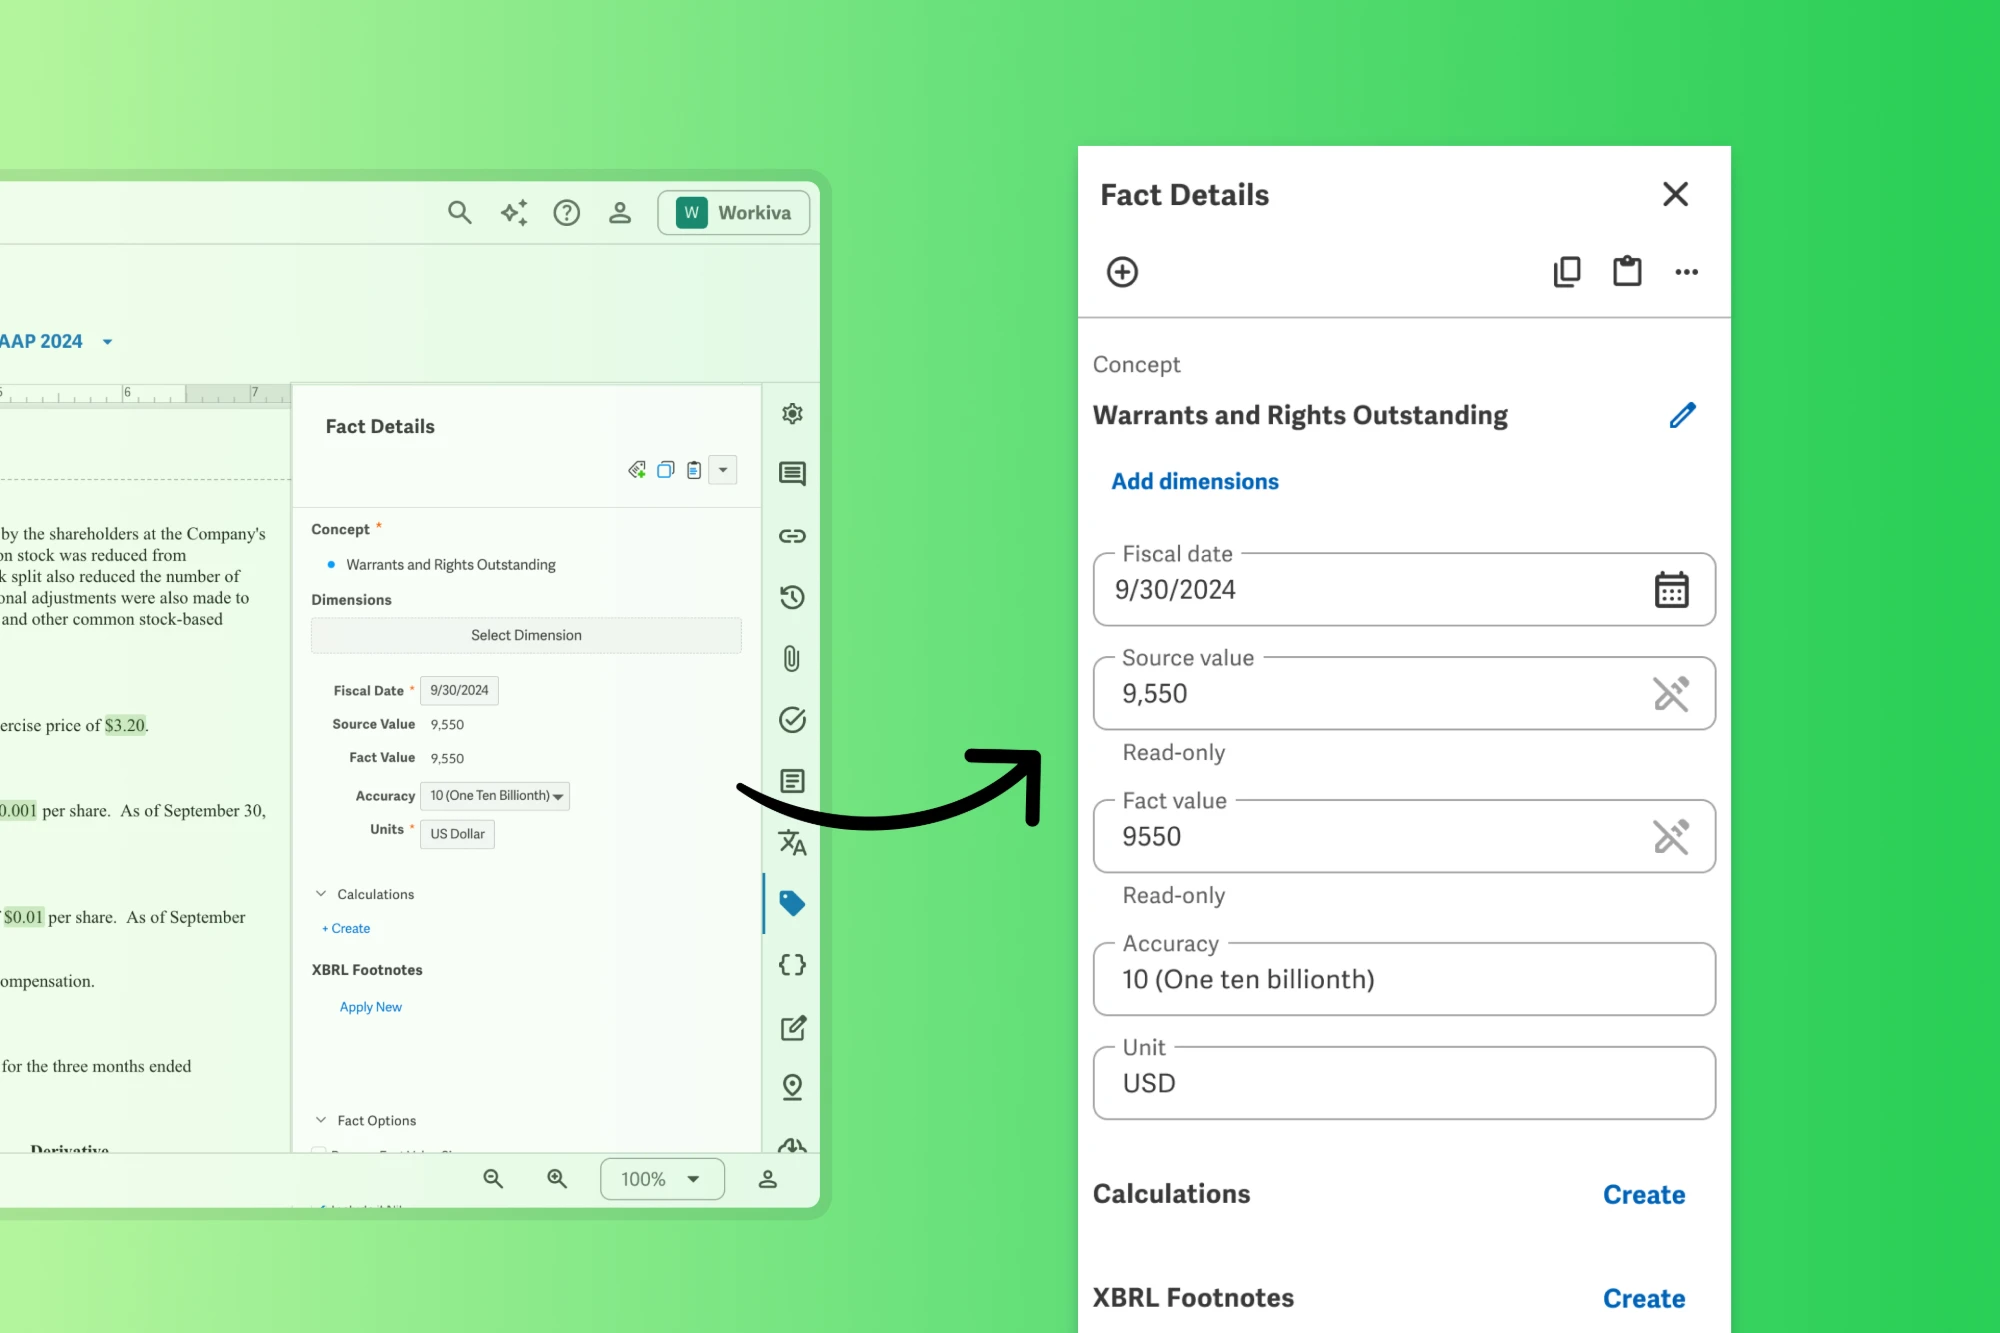
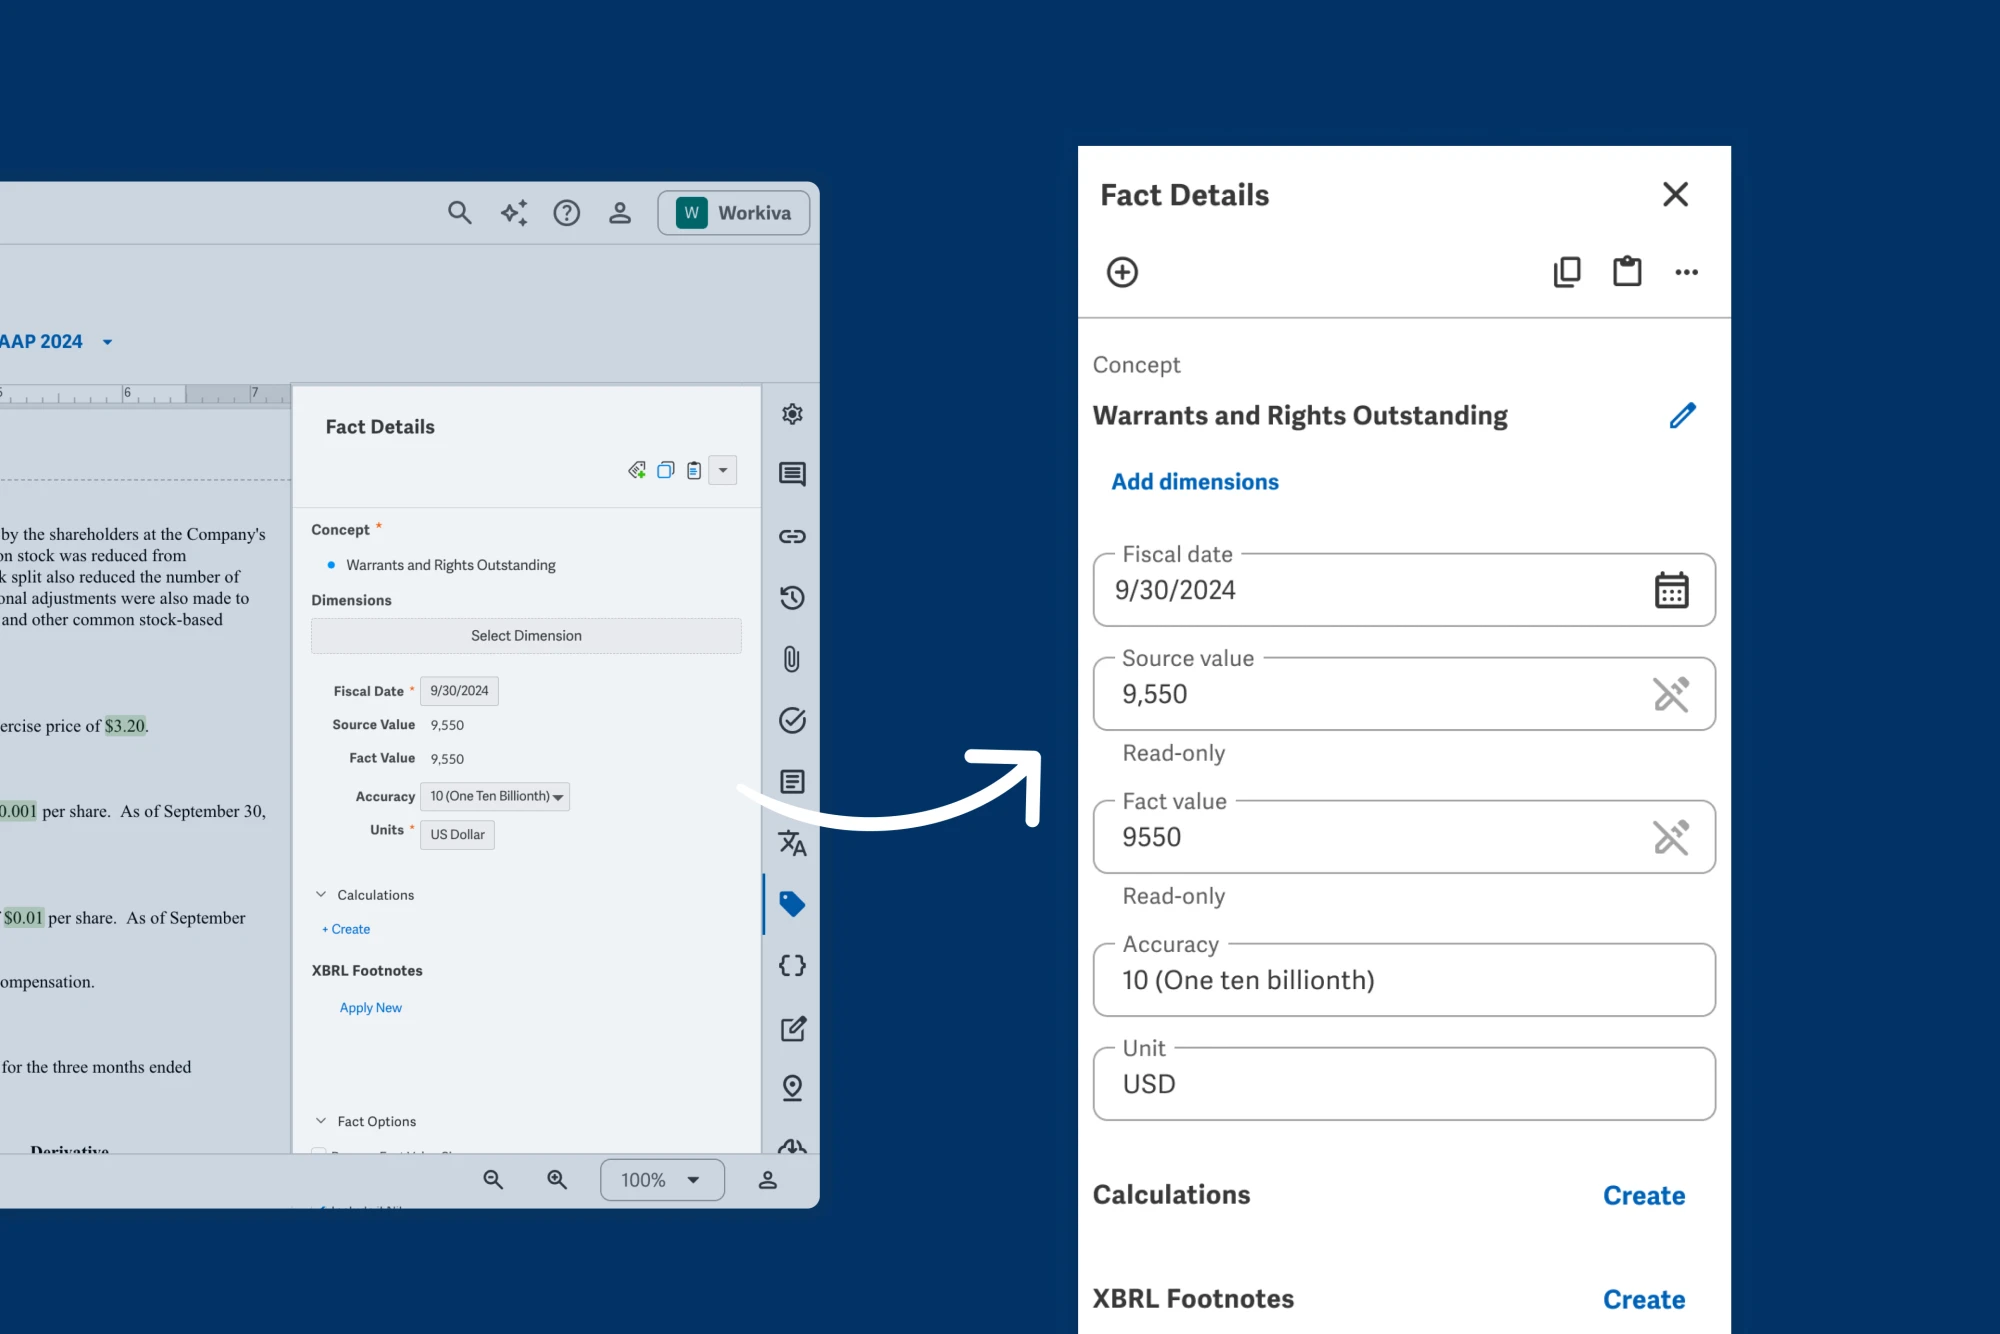
Use navy-background hero image for Design System Migration thumbnail

diff --git a/projects.html b/projects.html
@@ -132,7 +132,7 @@
     <div class="index-list">
 
       <a class="index-row" href="projects/ai-design-enablement.html">
-        <img class="index-row__thumb" src="assets/images/workiva-tsmigration/migration-thumb.webp" alt="" fetchpriority="high" width="2000" height="1333" />
+        <img class="index-row__thumb" src="assets/images/workiva-tsmigration/migration-thumb.webp" alt="" fetchpriority="high" width="2000" height="1334" />
         <div class="index-row__body">
           <div class="index-row__title">Automated Front-end Migration</div>
           <p class="index-row__label">Workiva • Financial Reporting • Design System Migration</p>

diff --git a/projects/ai-design-enablement.html b/projects/ai-design-enablement.html
@@ -312,7 +312,7 @@
     <p class="meta">Workiva • Financial Reporting • Design System Migration • January 2026</p>
   </header>
 
-  <img class="thumbnail" src="../assets/images/workiva-tsmigration/migration-thumb.webp" alt="The Fact Details panel in Workiva, shown in context on the left and enlarged on the right" fetchpriority="high" width="2000" height="1333" />
+  <img class="thumbnail" src="../assets/images/workiva-tsmigration/migration-thumb.webp" alt="The Fact Details panel in Workiva, shown in context on the left and enlarged on the right" fetchpriority="high" width="2000" height="1334" />
 
   <div class="case-study">
 
